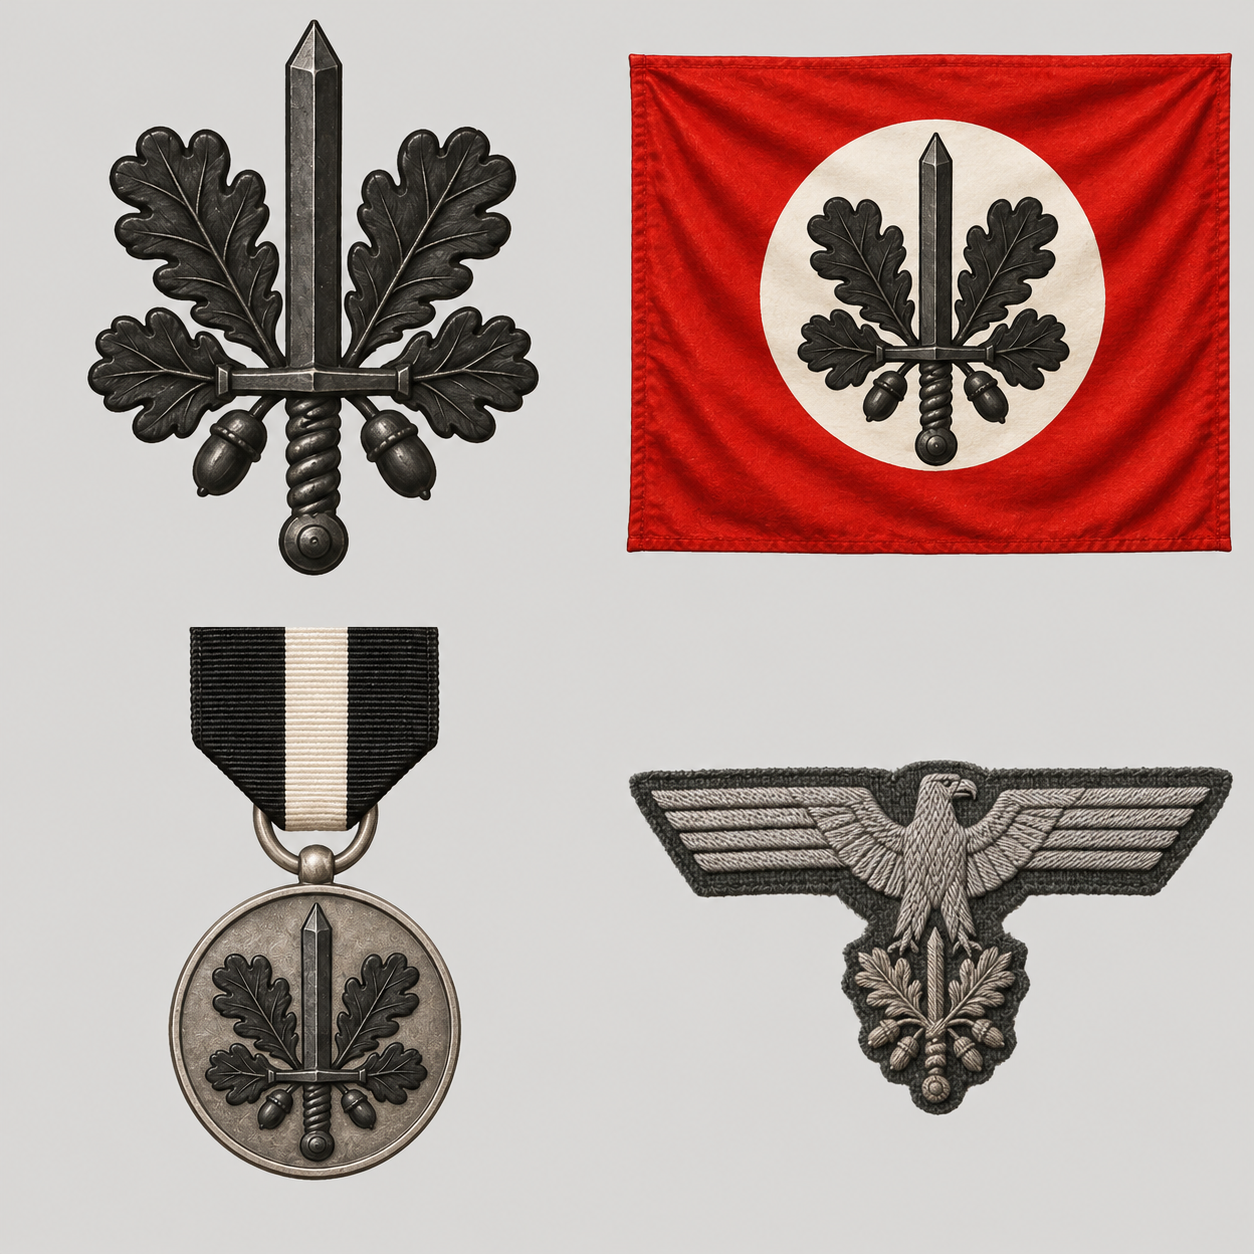
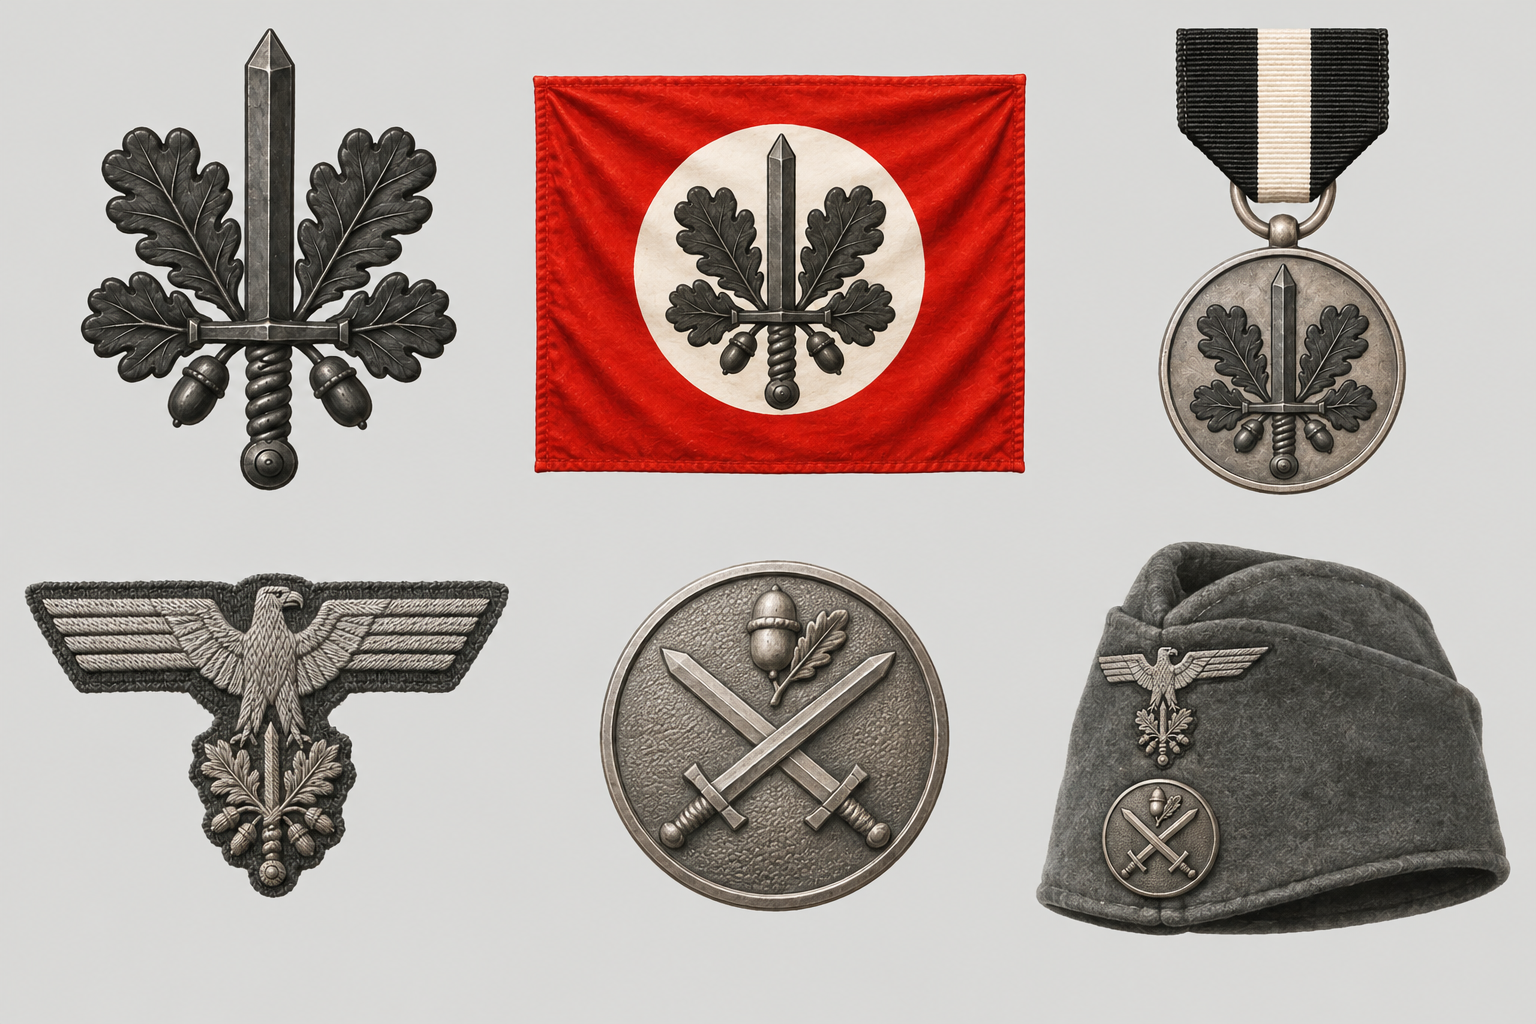
Emblem sheet with a cap badge to use instead of the skull
Claude-Session: https://claude.ai/code/session_01FPxW8otRVdngYhnkrH8mAQ

diff --git a/CLAUDE.md b/CLAUDE.md
@@ -21,15 +21,17 @@
     turret), painted plain with no markings.
 - Keep them **censor-friendly**: no swastikas, SS runes or real regime symbols. Where an emblem would
   appear, use the sword-and-oak-leaves emblem. Ask the owner to attach `docs/emblem-sheet.png` (the emblem
-  alone, on a red flag with a white disc, on a medal, and held by a breast eagle with NO wreath) and refer
+  alone, on a red flag with a white disc, on a medal, held by a breast eagle with NO wreath, and a round
+  silver cap badge with two crossed swords and an acorn, alone and on a side cap) and refer
   to it in the prompt, e.g. "a grey woven eagle exactly like the eagle in the attached emblem-sheet.png,
   holding only the sword-and-oak-leaves emblem, with no wreath and no circle". Image models tend to add a
   wreath with their own symbol under a small eagle; when that happens, crop the portrait above the eagle. Avoid naming
   sensitive historical terms when a neutral description works. For Waffen-SS portraits, never write the
   word "SS" or rank names like "SS-Rottenführer": describe only the insignia ("his rank: two thin silver
   stripes"). Do not describe fanaticism (zealous eyes, "joined at eighteen", ideological books) or put
-  weapons across the chest; the combination with a skull badge gets prompts refused. Fallback for the
-  skull: "a small round silver button on the front".
+  weapons across the chest; the combination with a skull badge gets prompts refused. Instead of the
+  skull, use the cap badge from the sheet: "the round silver cap badge (two crossed swords with an acorn)
+  from the attached emblem-sheet.png". Last resort: "a small round silver button on the front".
 - Scenes: landscape 16:9, at least 1600 × 900, horizon at 55–60 % of the height, important things
   between 30 % and 80 % of the height, hand-painted gouache style (`docs/style-reference.png`).
   Portraits: square, 1024 × 1024, plain dark olive background (#3b3d34).
